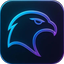
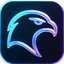
fix(ícono): la barra de título usa el trazo grueso (se ve a 18 px)

diff --git a/scripts/icono-desde-png.py b/scripts/icono-desde-png.py
@@ -64,7 +64,8 @@ def main() -> None:
             small = small.filter(ImageFilter.UnsharpMask(radius=1, percent=120, threshold=0))
         return small
 
-    at(64).save(out / "kuntur-64.png")
+    # La barra de título lo muestra a ~18 px: se usa el trazo grueso aunque el archivo sea de 64 px.
+    bold.resize((64, 64), Image.LANCZOS).save(out / "kuntur-64.png")
     frames = [at(s) for s in ICO_SIZES]
     frames[-1].save(out / "kuntur.ico", format="ICO", sizes=[(s, s) for s in ICO_SIZES], append_images=frames[:-1])
     print("box", (left, top, right, bottom), "lado", side)
